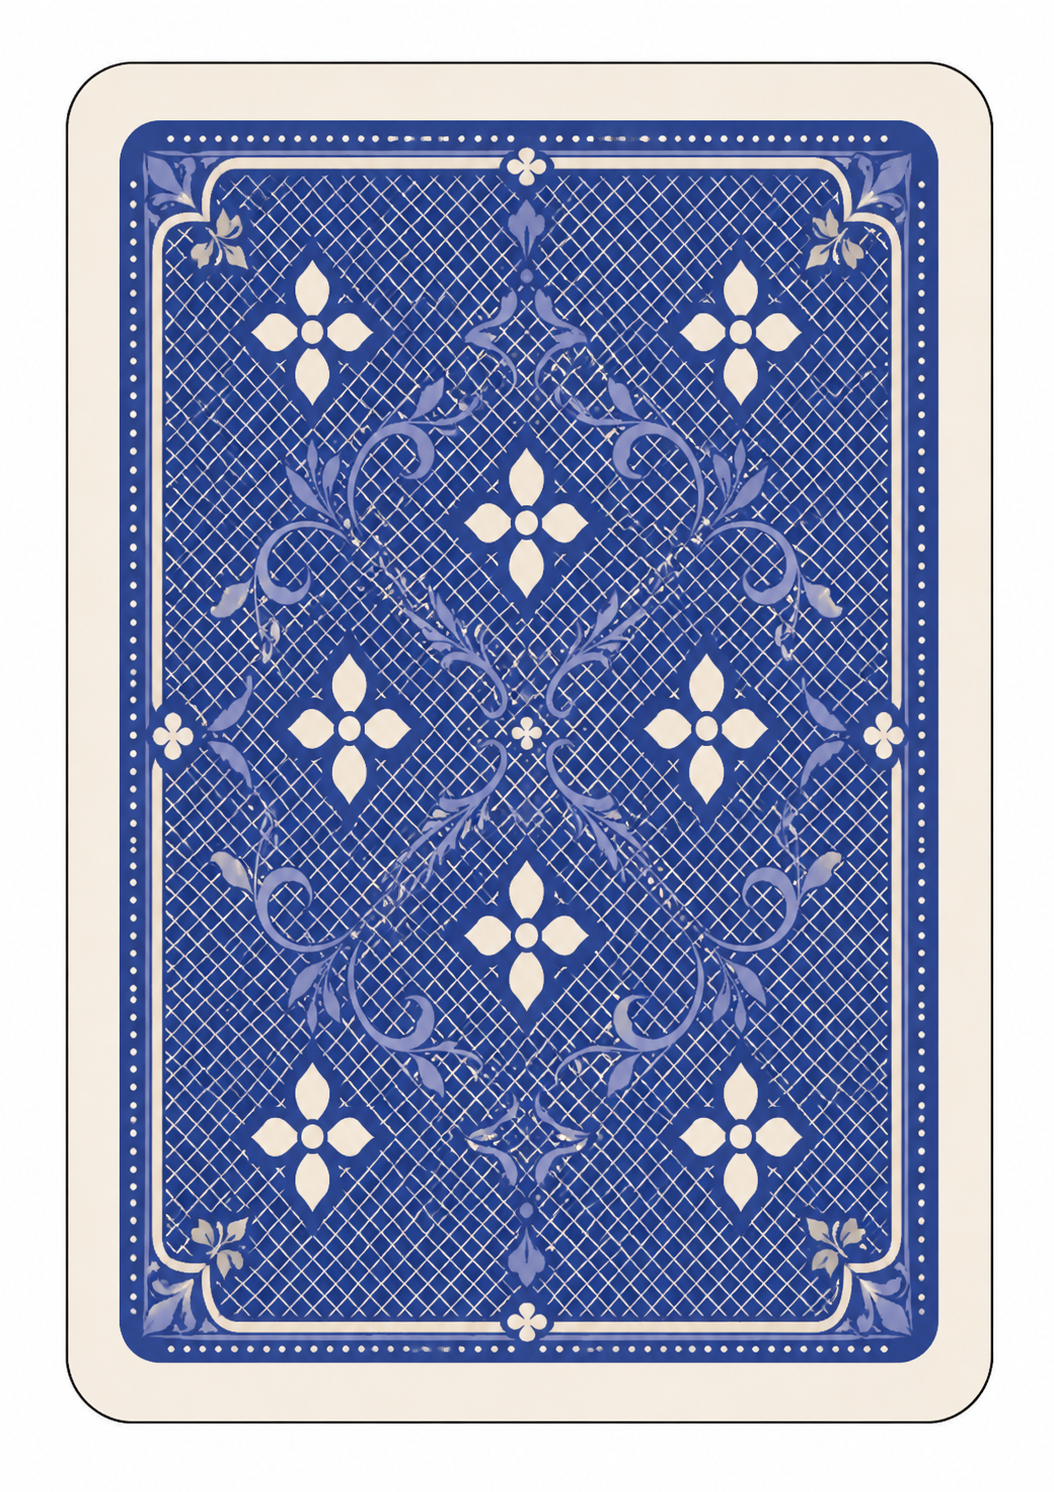
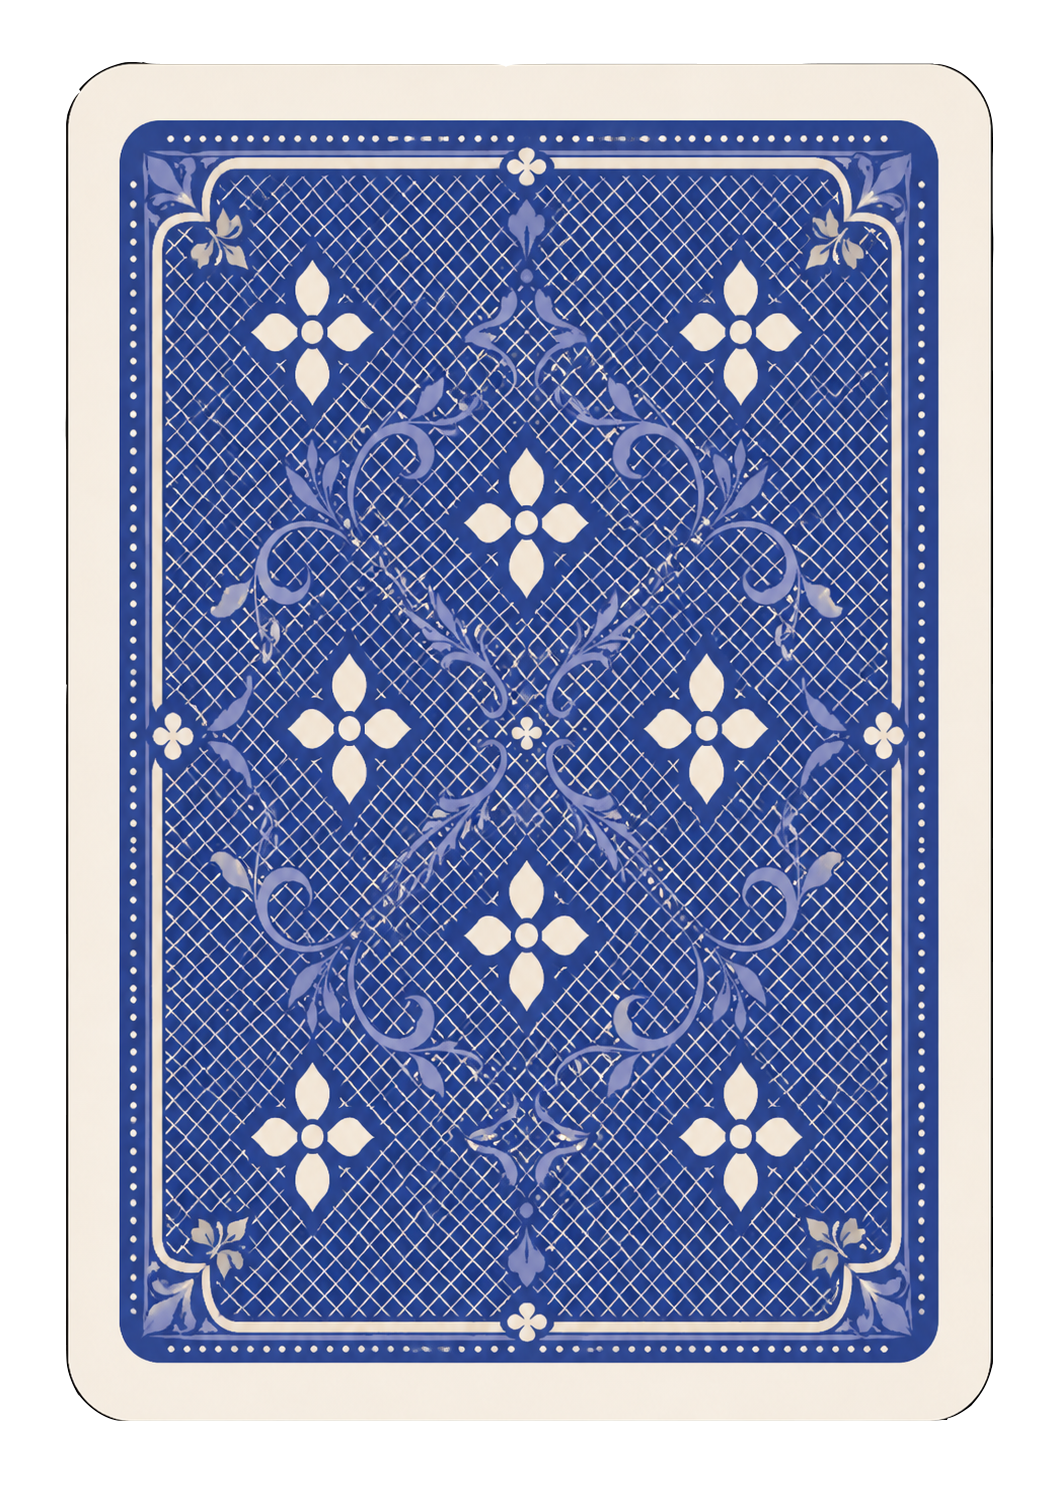
Update Card_Back.png; bump SW cache to v5

diff --git a/sw.js b/sw.js
@@ -1,4 +1,4 @@
-const CACHE = 'cottage-solitaire-v4';
+const CACHE = 'cottage-solitaire-v5';
 const ASSETS = [
   './',
   './index.html',